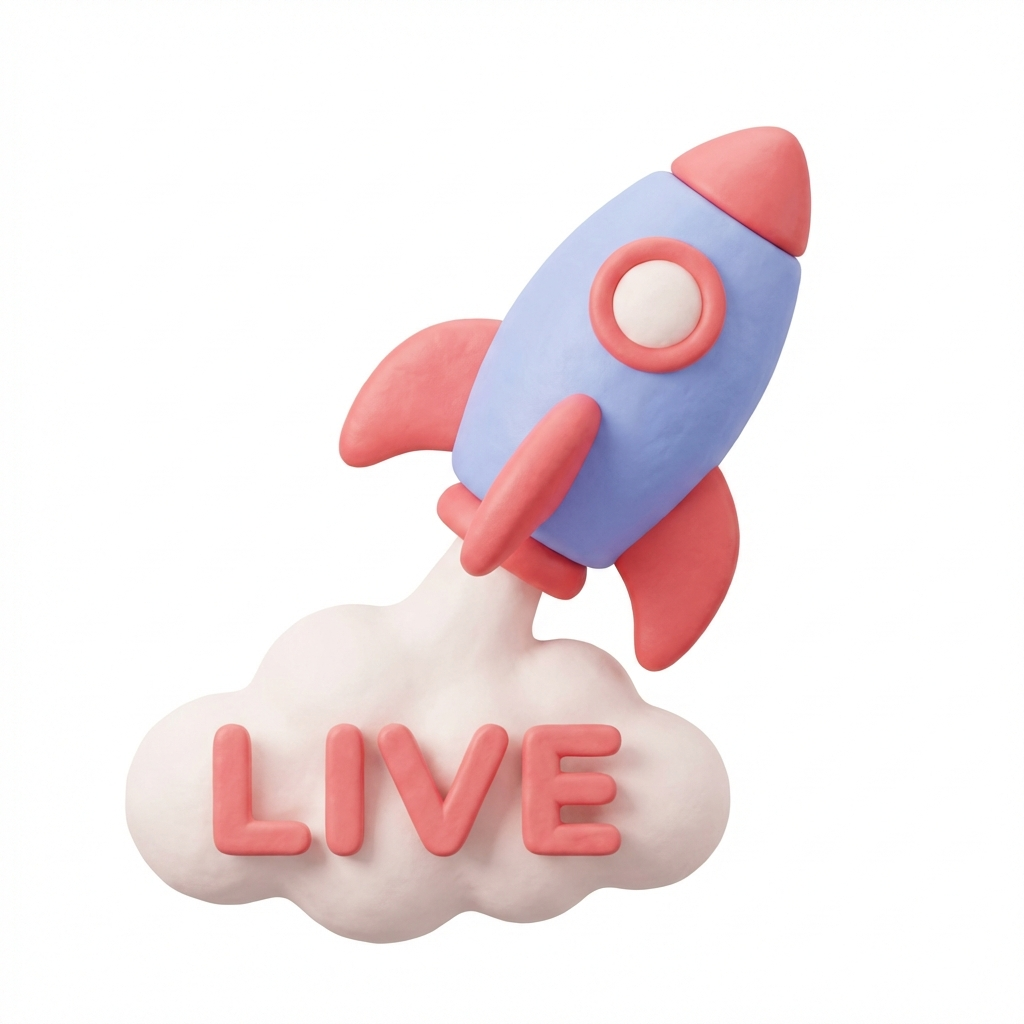
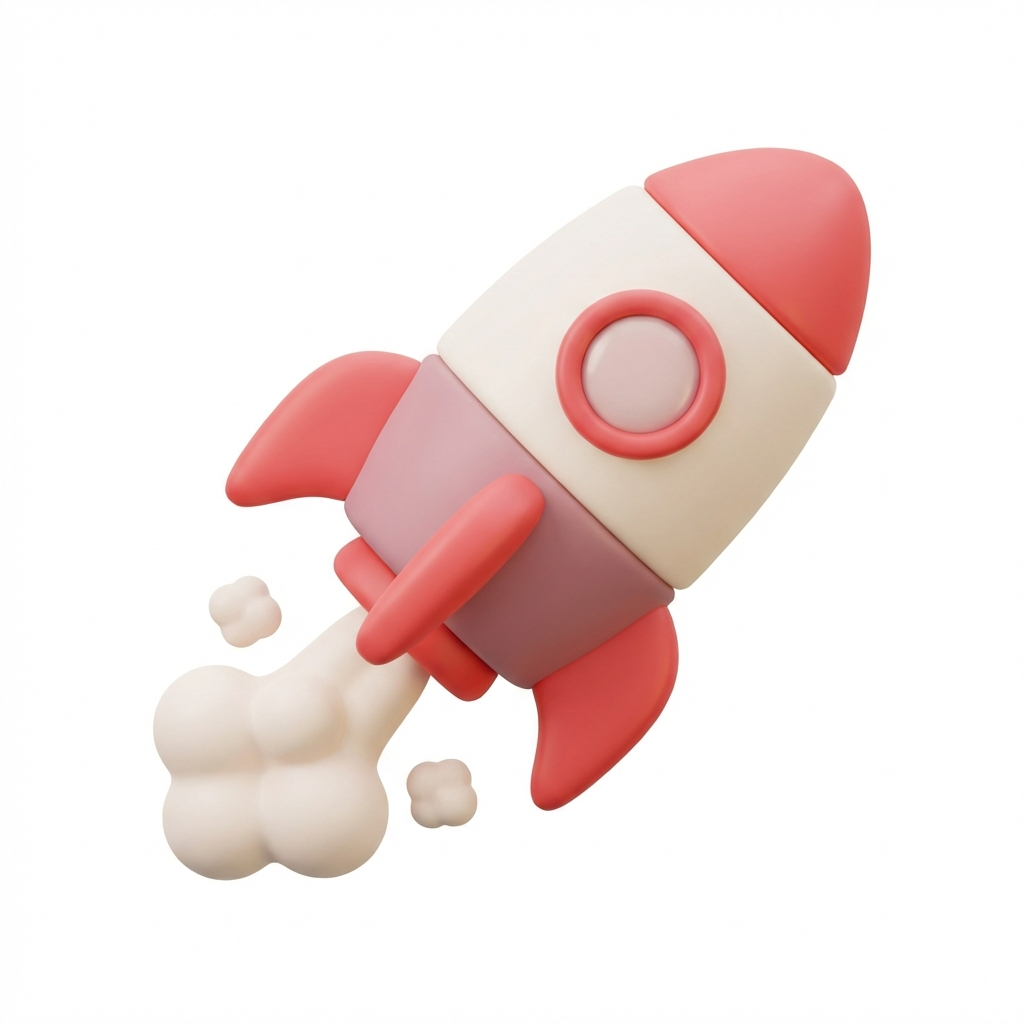
Feat: Redesign Live status (Red Rocket, Red Text)

diff --git a/src/components/kanban-board.tsx b/src/components/kanban-board.tsx
@@ -13,7 +13,7 @@ type KanbanBoardProps = {
 const COLUMNS = [
   { id: 'ideation', label: '妄想中', color: 'text-amber-500', icon: '/assets/3d/ideation.png' },
   { id: 'development', label: '開発中', color: 'text-purple-600', icon: '/assets/3d/development.png' },
-  { id: 'live', label: '公開中', color: 'text-sky-600', icon: '/assets/3d/live.png' },
+  { id: 'live', label: '公開中', color: 'text-rose-500', icon: '/assets/3d/live.png' },
   { id: 'done', label: '一旦保留', color: 'text-emerald-600', icon: '/assets/3d/pending.png' },
 ] as const
 
